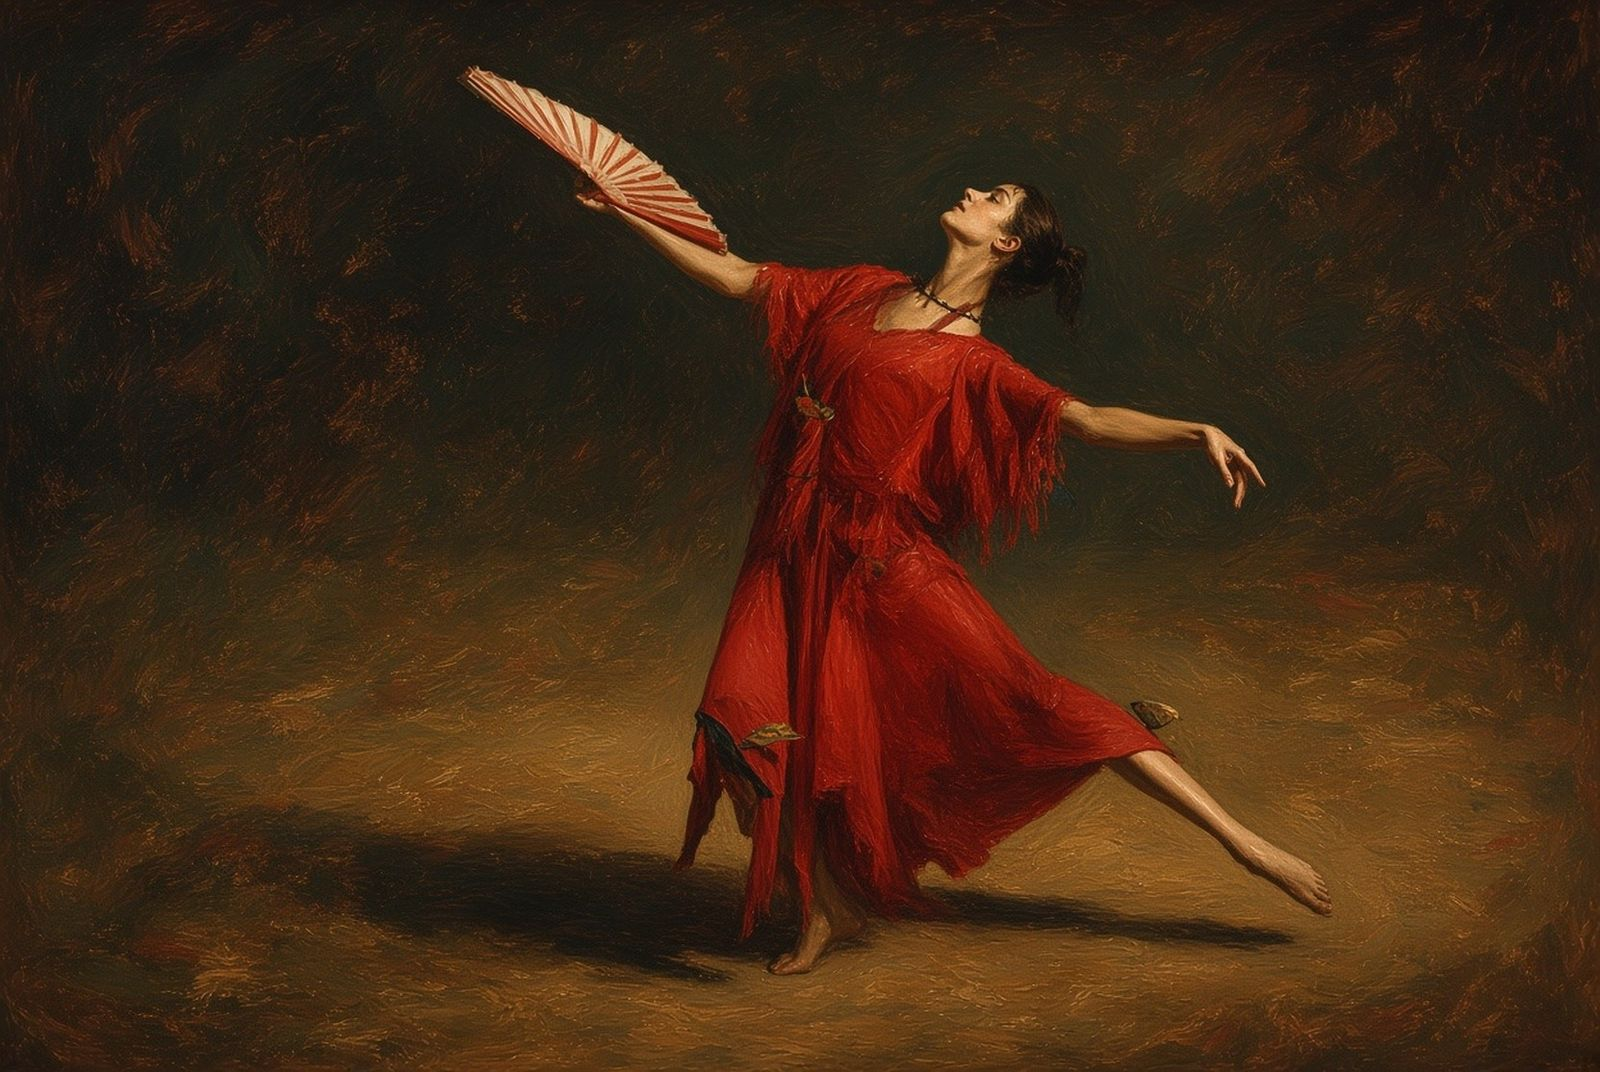
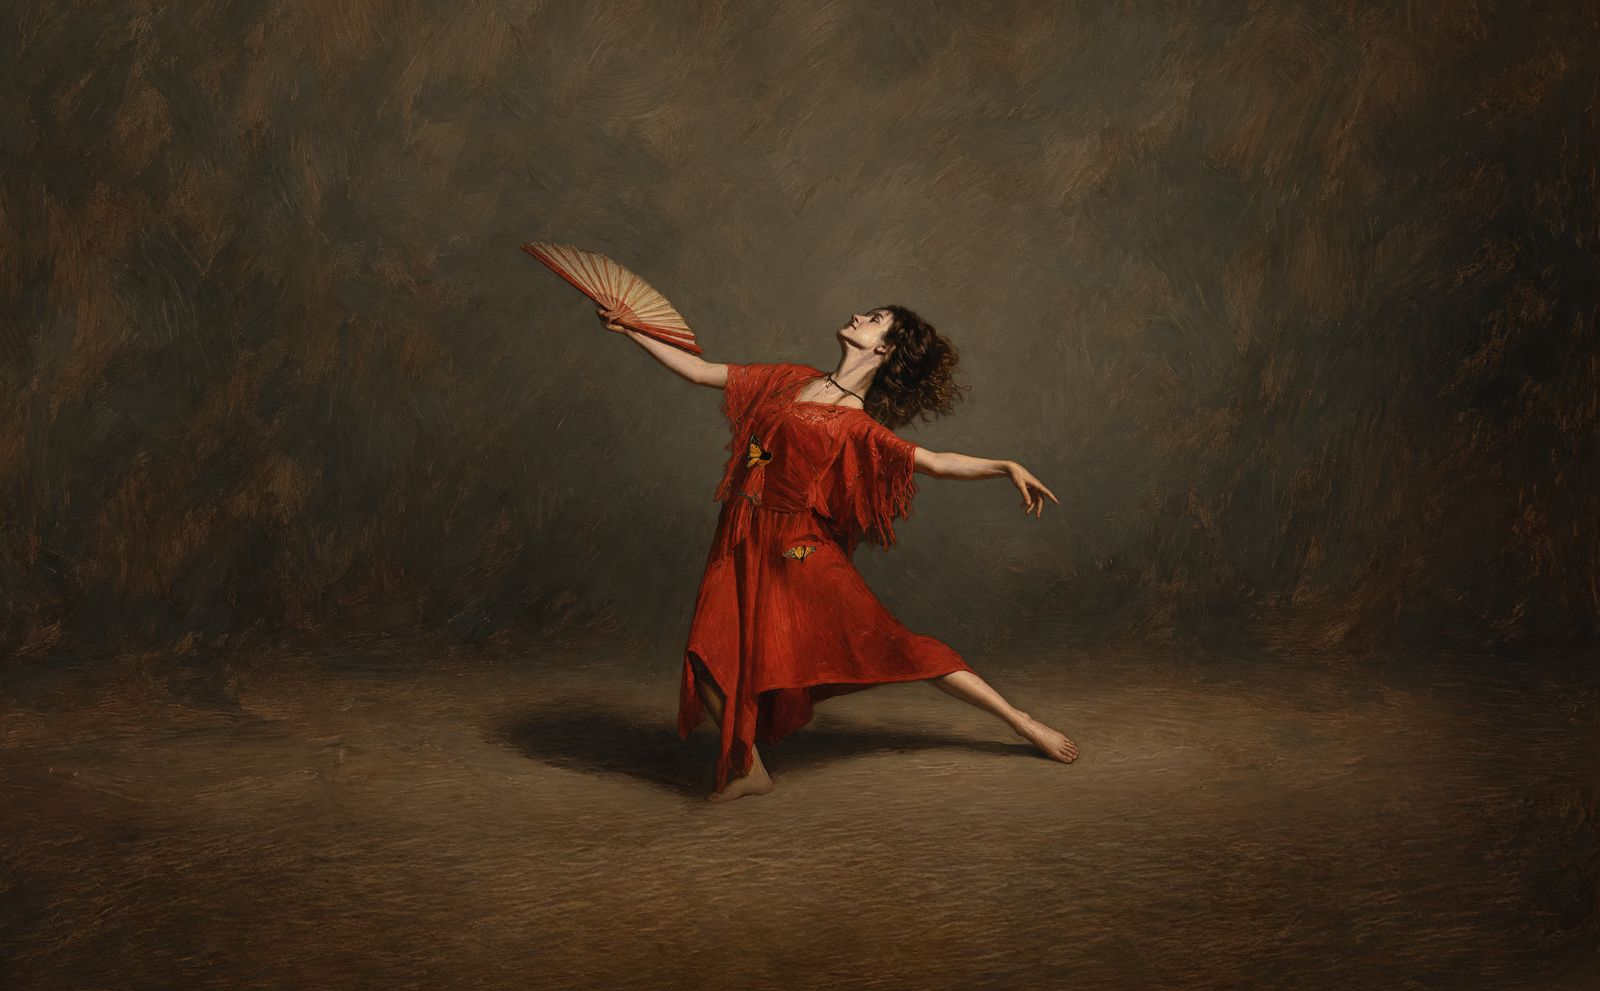
SAMPLES merge preview: 9 live pairs + 10 held paintings (19 slides), red dancer replaced by formalB-final; befores = crops of untouched originals (Vince 2026-10-21 2:38 PM CT). Preview branch; not on main, not pushed.

diff --git a/index.html b/index.html
@@ -649,17 +649,30 @@
   <script id="samples-drawer-js">
   (function () {
     "use strict";
-    // Befores: the matching Oct 17 booth slideshow NN-a-photo.jpg (EXIF stripped). Same 9 rights-cleared pairs only.
-    // Rights-cleared paintings from the Oct 17 booth slideshow (pairs 1,2,3,4,8,9,11,12,13).
-    // Excluded: 5 green chair cat, 6 pink chair cat (Dreamstime), 7 Papillon (boat issues), 10 red fox dog.
+    // Befores: the matching Oct 17 booth slideshow NN-a-photo.jpg (EXIF stripped) for pairs 1-13; for 14-23 a crop of the untouched
+    // original photo matching the painting frame (explore/2026-10-21-samples-merge/tools/build_log.json).
+    // Merged slideshow preview (Vince 2026-10-21 2:38 PM CT): the 9 live pairs + 10 held paintings from assets/slideshow-hold/;
+    // pair 9 red dancer painting replaced by red-dancer-delacroix-formalB-final (same before photo).
+    // Excluded: 5 green chair cat, 6 pink chair cat (Dreamstime), 7 Papillon (boat issues), 10 red fox dog; Renoir family (no consent);
+    // Monet girl (no approved version yet); Sargent tree-line alternate; superseded/ files.
     var SAMPLES = [
       { pair: 4,  src: "samples/04-rembrandt.jpg", artist: "Rembrandt", who: "Penn" },
       { pair: 2,  src: "samples/02-fragonard.jpg", artist: "Fragonard", who: "Pepa" },
       { pair: 9,  src: "samples/09-delacroix.jpg", artist: "Delacroix", who: "a dancer in a red dress" },
+      { pair: 18, src: "samples/18-leonardo.jpg",  artist: "Leonardo",  who: "a grey tabby cat" },
       { pair: 1,  src: "samples/01-gericault.jpg", artist: "Géricault", who: "Pepa" },
+      { pair: 21, src: "samples/21-turner.jpg",    artist: "Turner",    who: "a cormorant drying its wings" },
       { pair: 8,  src: "samples/08-vangogh.jpg",   artist: "Van Gogh",  who: "Theo" },
+      { pair: 20, src: "samples/20-sargent.jpg",   artist: "Sargent",   who: "a woman leading her horse" },
+      { pair: 17, src: "samples/17-gauguin.jpg",   artist: "Gauguin",   who: "a black dog" },
       { pair: 12, src: "samples/12-rembrandt.jpg", artist: "Rembrandt", who: "Lucy" },
+      { pair: 16, src: "samples/16-degas.jpg",     artist: "Degas",     who: "a white horse" },
+      { pair: 22, src: "samples/22-fragonard.jpg", artist: "Fragonard", who: "a vase of flowers with tomatoes" },
+      { pair: 23, src: "samples/23-wyeth.jpg",     artist: "Wyeth",     who: "an orange tabby cat" },
+      { pair: 15, src: "samples/15-david.jpg",     artist: "David",     who: "a grey roan horse" },
       { pair: 3,  src: "samples/03-fragonard.jpg", artist: "Fragonard", who: "Tia and Pepa" },
+      { pair: 19, src: "samples/19-homer.jpg",     artist: "Homer",     who: "a red ridgeback" },
+      { pair: 14, src: "samples/14-delacroix.jpg", artist: "Delacroix", who: "a woman in a flowing cape" },
       { pair: 13, src: "samples/13-gericault.jpg", artist: "Géricault", who: "Sal and his horse" },
       { pair: 11, src: "samples/11-rembrandt.jpg", artist: "Rembrandt", who: "Sven" }
     ];
